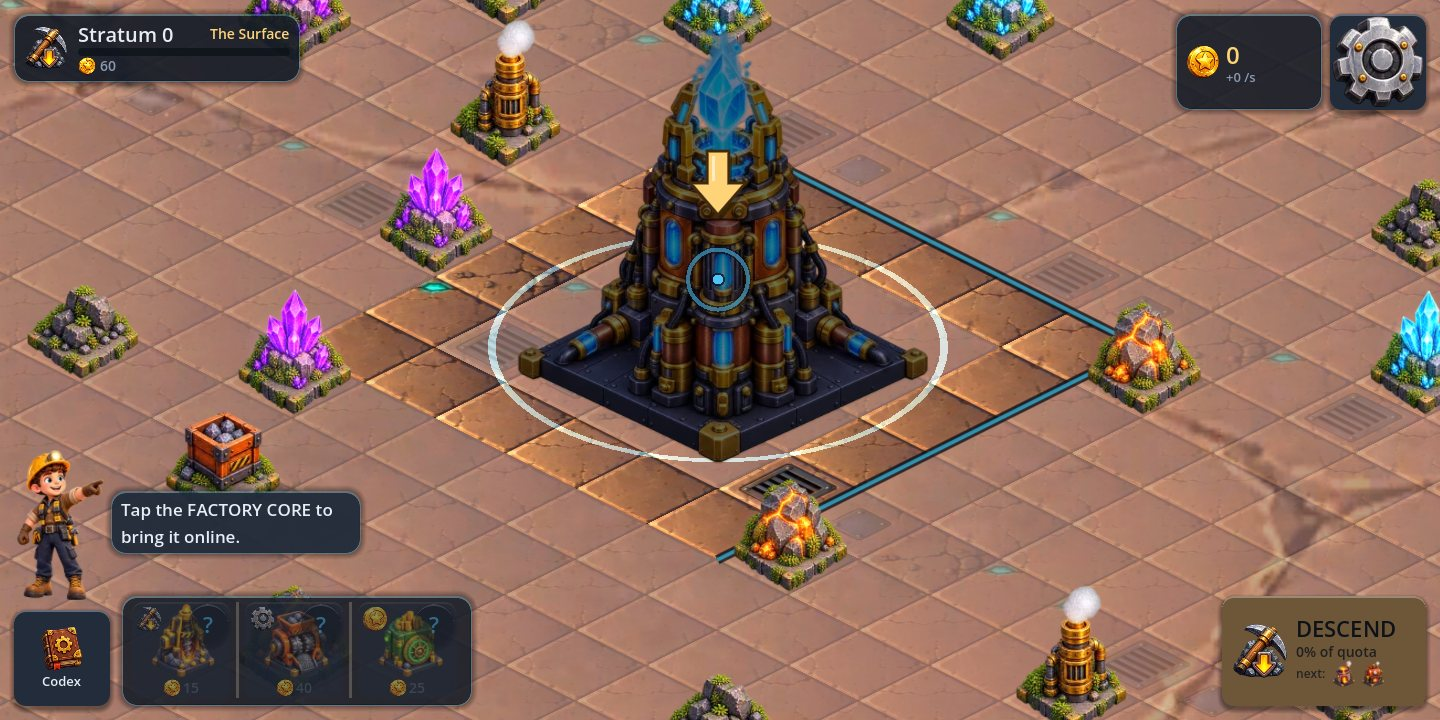
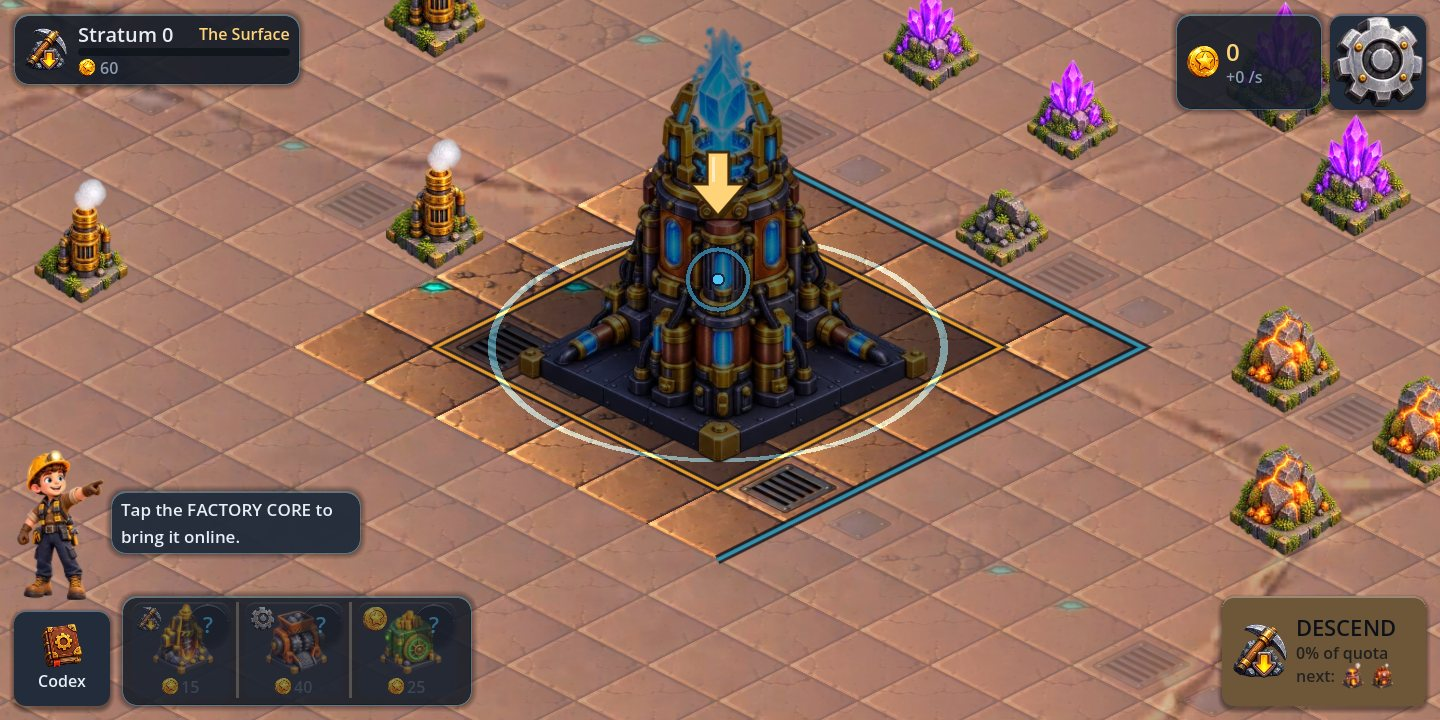
Refresh the README's pictures on tonight's build, and add the Core card and what lies below
The first screen, the mid-game shaft, the whole board, the close-up, the
Research grid and the Codex page are re-shot on the current build (the
clustered ground, the tray arrows, the Research count, the larger
captions). Two new pictures sit beside the paragraph about them: the
Factory Core's card and the next stratum's card. "New machines down
there" says "A new machine" when there is one.

diff --git a/README.md b/README.md
@@ -21,8 +21,9 @@ standing in the middle.
 pays for the first Drill and Vault. The one-tile ring round it is all the
 ground there is to build on at first. Deeper strata widen the ring, and
 the Core grows with it, until the whole board is open. The ground the
-factory has not reached is strewn with crystals, ore and rubble, and the
-growing yard clears them as it goes.
+factory has not reached holds crystal fields, ore seams and heat vents in
+clusters, with bare ground left in front of the Core, and the growing yard
+clears them as it goes.
 
 Drag to pan, pinch or wheel to zoom, tap to place, tap a machine to select
 it and drag it to move it, or press the bin on its panel to remove it. The
@@ -94,13 +95,18 @@ four numbers -- machines, how many are working, how many need help (the
 warning key's own count, with a key that goes to the first one), and what
 it earns -- with how much of the yard is built and what the next stratum
 brings. Tapping a crystal, an ore vein or a heat vent round the yard says
-what it is, what uses it, and when the yard will reach it. On a stratum
-whose rules help or hold back a machine, its tray key carries a green or
-red arrow -- the simulation's own answer for that machine on that rock --
-and the stratum's card shows the same machines under each rule. Holding Descend (or
-tapping it before the quota) shows the next stratum's rules, machines and
-ground before you go. Settings has a
+what it is, what uses it, and when the yard will reach it.
+
+On a stratum whose rules help or hold back a machine, its tray key carries
+a green or red arrow -- the simulation's own answer for that machine on
+that rock -- and the stratum's card shows the same machines under each
+rule. Holding Descend (or tapping it before the quota) shows the next
+stratum's rules, machines and ground before you go. Settings has a
 **Larger text** switch that makes every word a quarter bigger.
+
+| The Factory Core | What lies below |
+|---|---|
+| ![The Factory Core's card: level 5, 42 machines, 24 working, 18 need help, 166 credits a second, the yard 42 of 180 tiles built](docs/media/core-card.jpg) | ![The next stratum before descending: Cramped and Brittle Rock, with an arrow on each machine the rule moves](docs/media/below.jpg) |
 
 The heat button glows before it is pressed when some machine is too hot, or
 shows frost when one is too cold. Pressed, it relabels every tile with how far
